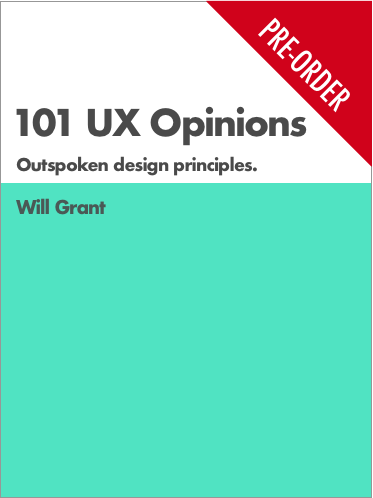
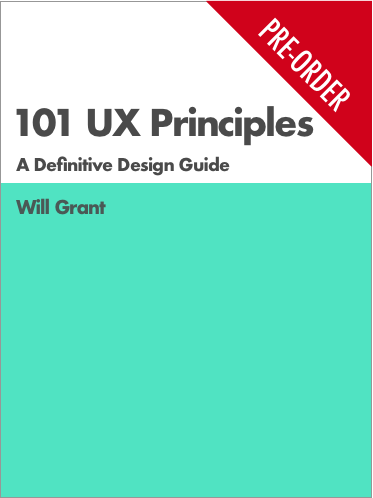
finally the right title has been arrived at

Changed region(s): [[0.0295, 0.2108, 0.8552, 0.3614]]

diff --git a/index.html b/index.html
@@ -20,9 +20,11 @@
 
 
     <div class="container">
-        <h1>101 UX Opinions: Outspoken Design Principles</h1>
-        <h2>An opinionated user experience guide by Will Grant</h2>
-        <img src="/img/101ux-cover.png" style="width:200px;height:auto;margin-bottom:16px">
+        <h1>101 UX Principles: A Definitive Design Guide</h1>
+        <h2>An <em>opinionated</em> user experience guide by Will Grant</h2>
+        <a href="http://amzn.to/2F92164">
+            <img src="/img/101ux-cover.png" style="width:200px;height:auto;margin-bottom:16px">
+        </a>
         <br>
         <a href="http://amzn.to/2F92164" class="btn">Pre-order now on Amazon</a>
         <span class="text-small">Paperback, Kindle and eBook versions available</span>
@@ -31,7 +33,7 @@
         <p>Many of them are <strong>plain wrong</strong>.</p>
         <p>This has led to an entire generation of designers failing to make interfaces that are usable, software that’s intuitive, and products that normal people can understand.</p>
     
-        <h2>101 UX Opinions changes that with 101 ways to solve 101 UX problems clearly and single-mindedly.</h2>
+        <h2>101 UX Principles changes that with 101 ways to solve 101 UX problems clearly and single-mindedly.</h2>
 
         <p>The 101 principles are opinionated. They’ll rub some designers up the wrong way. But these principles are rooted in 20 years of building for the web. They’re not based on theory, they’re based on practice.</p>
         
